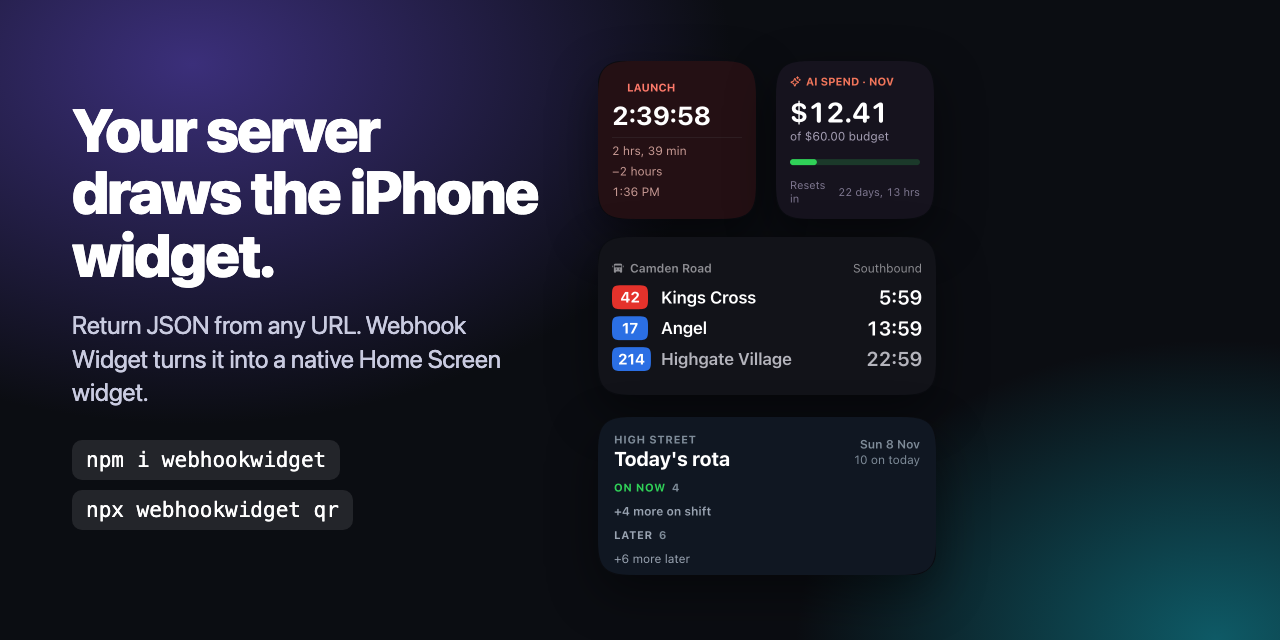
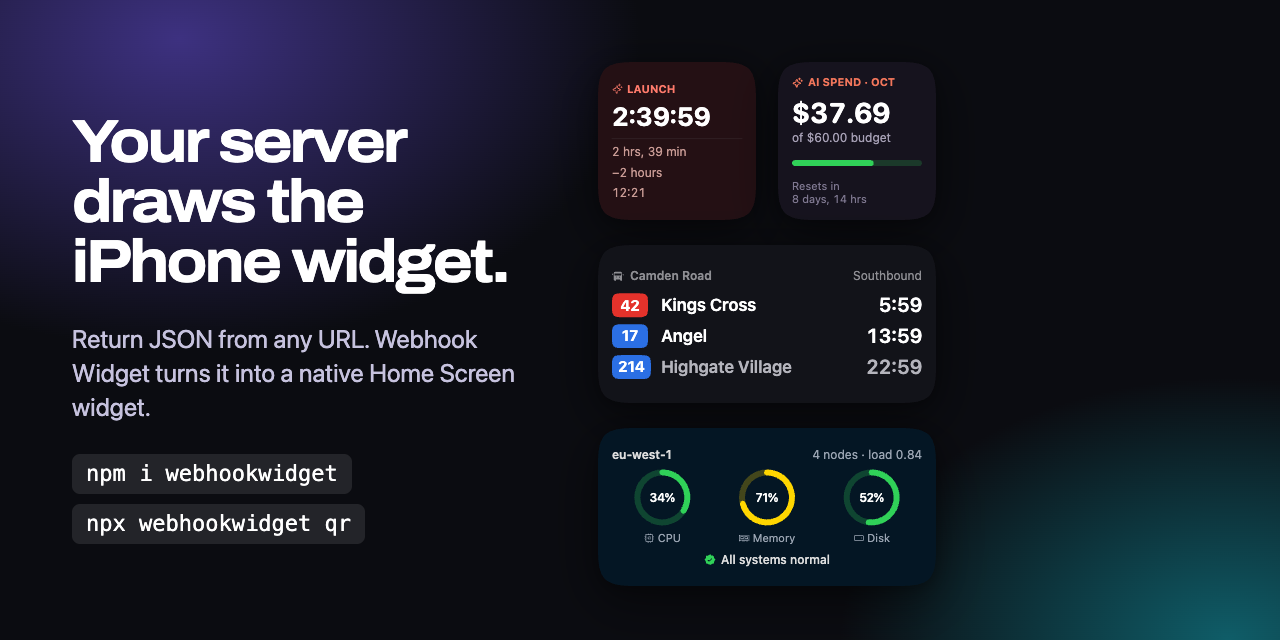
Redraw the README picture, and use the documentation's new page titles
The picture drew the team rota, a large widget, at the medium size, so its
rows were cut. Server health takes its place.

The READMEs link to the documentation by its new page titles, and the section
on taps says which version of the app it needs on a line of its own.

diff --git a/packages/webhookwidget/README.md b/packages/webhookwidget/README.md
@@ -43,7 +43,7 @@ wallpaper. The page's title becomes `preview-ready` when the widget is drawn. An
 this link to check its work. `npx webhookwidget --help` lists every option.
 
 A setup link opens the app's hook editor with every field filled in. The app saves nothing until
-the person taps Save. **The link and the QR code contain the secret.** Do not put them in chats,
+you tap Save. **The link and the QR code contain the secret.** Do not put them in chats,
 issues, commits or logs.
 
 ## The types
@@ -84,10 +84,11 @@ colour or field fails to compile instead of failing on the phone. Dates can be `
 | `registerLink(hook)` | The `webhookwidget://register?…` setup link for a hook: name, `https` URL and optional bearer, basic or header auth. |
 | `previewLink(payload, options)` | A playground link. Everything is in the fragment, which browsers never send to a server. |
 
-### Taps and buttons
+### Refresh on a tap and add buttons
 
-A tap on the widget opens the payload's `url`. `tap` and `when` change that. Both need version
-1.1 of the app, which sends revision 2.
+Available since: app 1.1, protocol `rev=2`
+
+A tap on the widget opens the payload's `url`. Set `tap` and `when` to change that.
 
 ```ts
 import { readRequest, type Node, type Payload } from "webhookwidget";
@@ -135,7 +136,7 @@ const payload: Payload = {
   always draws the node, so check `revision` before you send it.
 - iOS does not count a refresh that follows a tap against the widget's daily refresh budget.
 
-Reference: [taps and buttons](https://webhookwidget.com/docs/taps/).
+Reference: [make a widget interactive](https://webhookwidget.com/docs/taps/).
 
 The library has no dependencies. It runs on Workers, Node, Deno and Bun, and in a
 browser. The CLI needs Node 18.3 or later.

diff --git a/README.md b/README.md
@@ -1,6 +1,6 @@
 # Webhook Widget
 
-![Four Webhook Widget widgets, drawn from JSON: a launch countdown, AI spend against a budget, bus departures and a shop's rota](.github/social-preview.png)
+![Four Webhook Widget widgets, drawn from JSON: a launch countdown, AI spend against a budget, bus departures and server health](.github/social-preview.png)
 
 [Webhook Widget](https://webhookwidget.com) turns any JSON endpoint into an iPhone widget. Your
 server returns the whole layout, and the app draws it on the Home Screen and Lock Screen. You
@@ -53,7 +53,8 @@ To show your own data, see [the starter's README](templates/starter#3-make-it-yo
 ## Docs
 
 - [Quickstart](https://webhookwidget.com/docs/quickstart/) and [the node reference](https://webhookwidget.com/docs/schema/)
-- [Taps and buttons](https://webhookwidget.com/docs/taps/): refresh a widget on a tap, and draw buttons
+- [Make a widget interactive](https://webhookwidget.com/docs/taps/): refresh a widget on a tap, and add buttons
+- [Keep a widget's data fresh](https://webhookwidget.com/docs/timelines/): timeline entries, timers and the fetch interval
 - [The playground](https://webhookwidget.com/playground/), which draws a payload with the app's engine
 - [llms.txt](https://webhookwidget.com/llms.txt), for coding agents
 - [Worked examples](https://webhookwidget.com/examples/), each served live at `webhookwidget.com/demo/<id>`
